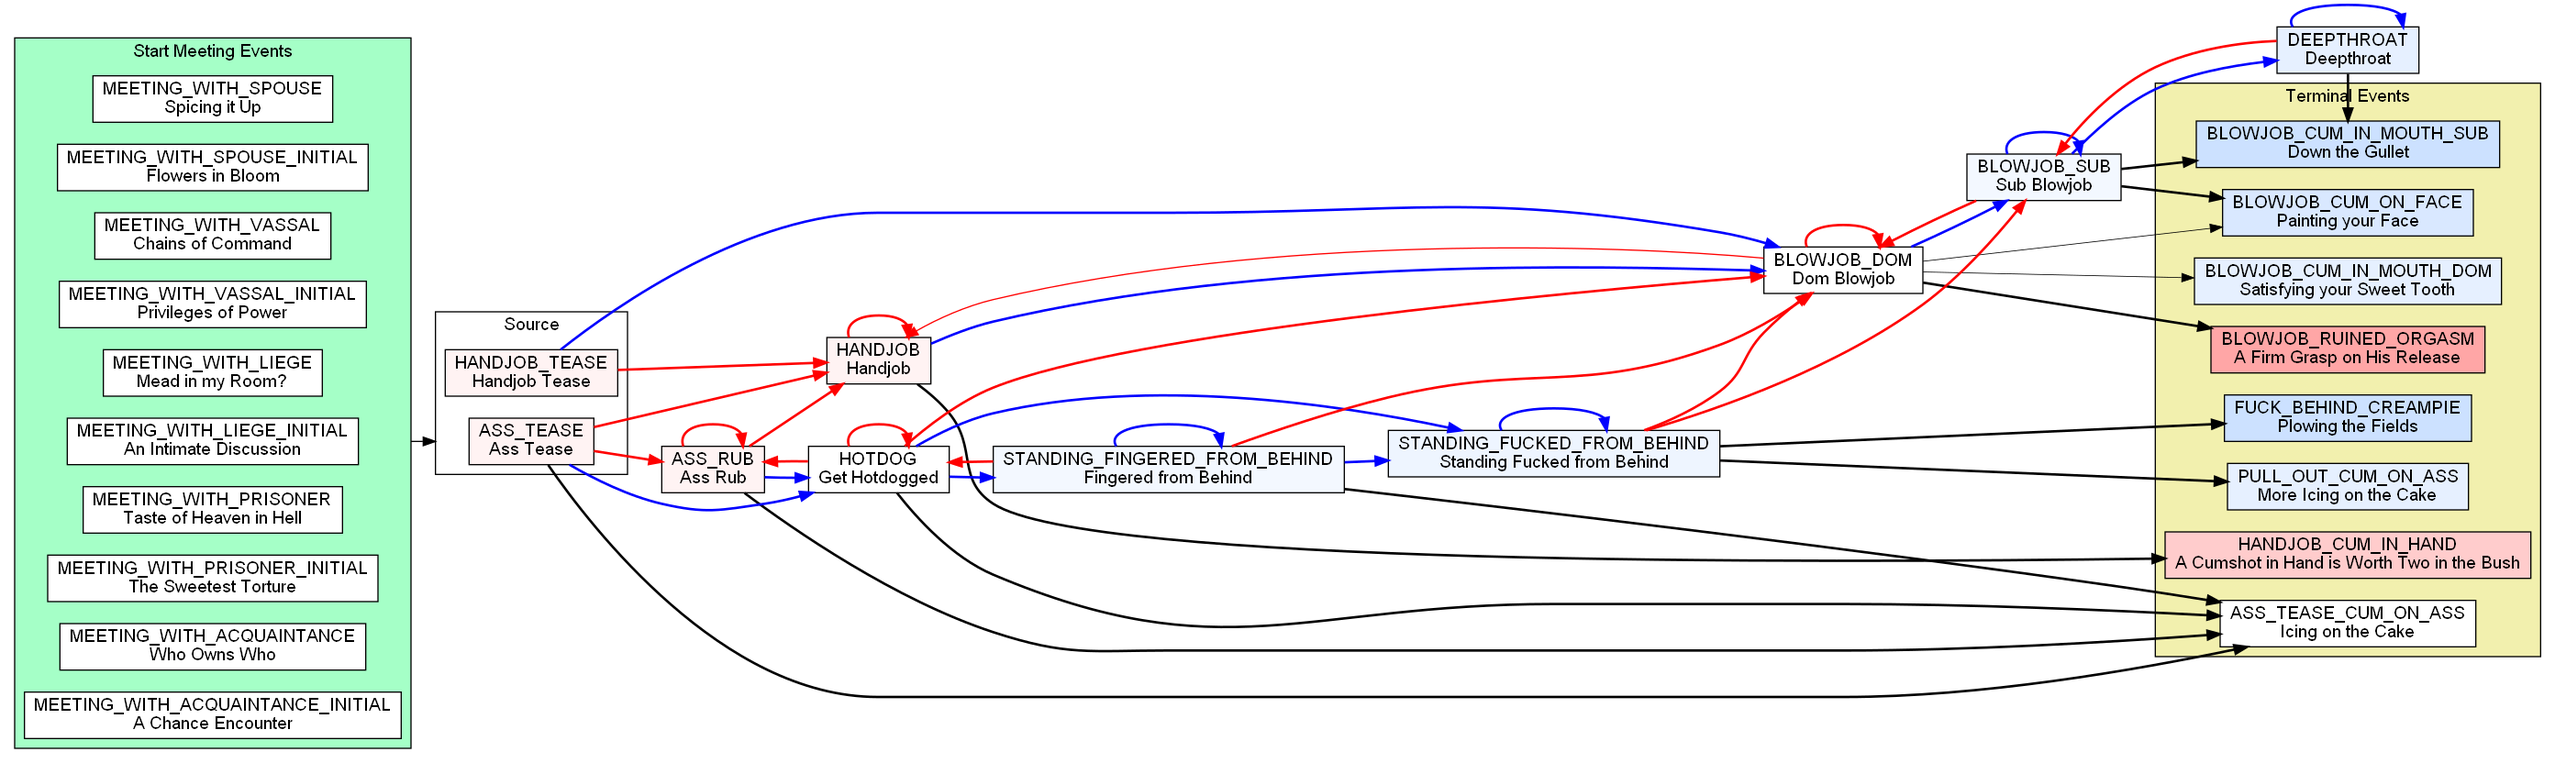
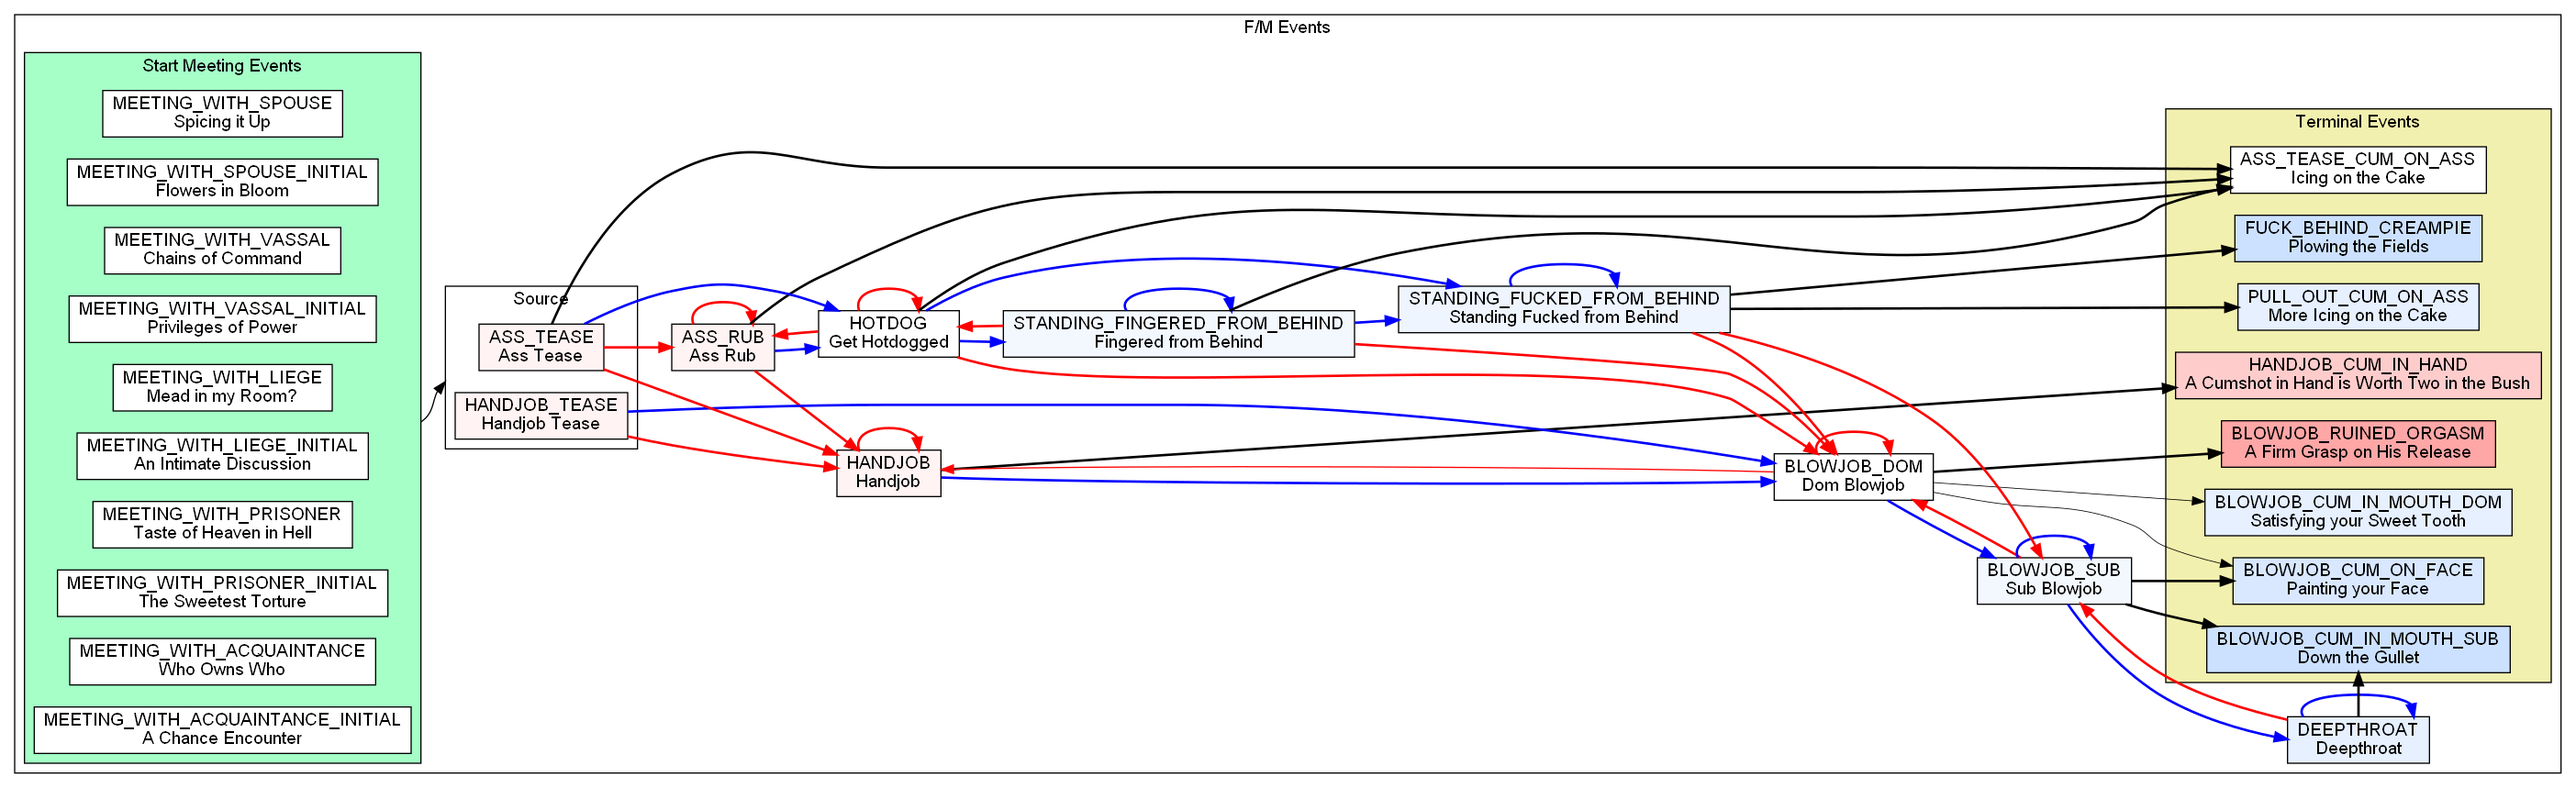
Create separate subgraphs for each gender pairing

diff --git a/generate_events.py b/generate_events.py
@@ -990,75 +990,94 @@ def export_dot_graphviz(events, horizontal=True, censored=False, show_titles=Tru
         # f.write("concentrate=true;\n")
         f.write("compound=true;\n")
 
-        source_sex_events = get_source_sex_events(events)
-        cum_events = []
-        regular_sex_events = []
-        first_events = []
-        for event in events.all():
-            if event in source_sex_events:
+        # organize events into gender pairings
+        pairings = [(FEMALE, MALE), (MALE, FEMALE), (FEMALE, FEMALE), (MALE, MALE)]
+        for pairing in pairings:
+            these_events = EventMap()
+            for event in events.all():
+                if event.root_gender == pairing[0] and event.partner_gender == pairing[1]:
+                    these_events.add(event)
+
+            if len(these_events.events) == 0:
                 continue
-            if isinstance(event.id, EventsCum):
-                cum_events.append(event)
-            elif isinstance(event.id, EventsFirst):
-                first_events.append(event)
-            else:
-                regular_sex_events.append(event)
-        events_with_options = source_sex_events + regular_sex_events
 
-        # regular sex events
-        for event in regular_sex_events:
-            f.write(event.id.name)
-            f.write(get_event_attr(event))
-            f.write(";\n")
+            f.write(
+                f"subgraph cluster_{pairing[0]}{pairing[1]} "
+                f"{{\n label=\"{pairing[0].upper()}/{pairing[1].upper()} Events\";\n")
+            # f.write("style=filled;\n fillcolor=\"#f2f0ae\";\n")
 
-        for event in events_with_options:
-            for option in event.options:
-                # terminal option
-                if option.next_id is None:
+            source_sex_events = get_source_sex_events(events)
+            cum_events = []
+            regular_sex_events = []
+            first_events = []
+            for event in events.all():
+                if event in source_sex_events:
                     continue
-                f.write(f"{event.id.name} -> {option.next_id.name}")
-                attr = []
-                if option.category == OptionCategory.DOM:
-                    attr.append("color=red")
-                elif option.category == OptionCategory.SUB:
-                    attr.append("color=blue")
+                if isinstance(event.id, EventsCum):
+                    cum_events.append(event)
+                elif isinstance(event.id, EventsFirst):
+                    first_events.append(event)
+                else:
+                    regular_sex_events.append(event)
+            events_with_options = source_sex_events + regular_sex_events
 
-                attr.append(f"penwidth={option.weight / 5}")
-
-                if len(attr) > 0:
-                    attr = "[" + ",".join(attr) + "]"
-                    f.write(attr)
+            # regular sex events
+            for event in regular_sex_events:
+                f.write(event.id.name)
+                f.write(get_event_attr(event))
                 f.write(";\n")
 
-        # sex source events (source nodes)
-        f.write("subgraph cluster_sex_source {\n label=\"Source\";\n rank=same;\n")
-        # invisible node for others to connect to the cluster as a whole
-        for i, event in enumerate(source_sex_events):
-            f.write(event.id.name)
-            f.write(get_event_attr(event))
-            f.write(";\n")
-        f.write("}\n")
+            # sex source events (source nodes)
+            f.write("subgraph cluster_sex_source {\n label=\"Source\";\n rank=same;\n")
+            # invisible node for others to connect to the cluster as a whole
+            for i, event in enumerate(source_sex_events):
+                f.write(event.id.name)
+                f.write(get_event_attr(event))
+                f.write(";\n")
+            f.write("}\n")
 
-        f.write("subgraph cluster_meeting {\n label=\"Start Meeting Events\";\n rank=source;\n")
-        f.write("style=filled;\n fillcolor=\"#A5FFC7\";\n")
-        for i, event in enumerate(first_events):
-            f.write(event.id.name)
-            f.write(get_event_attr(event))
-            f.write(";\n")
-            # create visual connection between the start meeting events and the source events
-            if i == len(first_events) // 2:
-                other = source_sex_events[len(source_sex_events) // 2]
-                f.write(f"{event.id.name} -> {other.id.name} [ltail=cluster_meeting,lhead=cluster_sex_source];\n")
-        f.write("}\n")
+            f.write("subgraph cluster_meeting {\n label=\"Start Meeting Events\";\n rank=source;\n")
+            f.write("style=filled;\n fillcolor=\"#A5FFC7\";\n")
+            for i, event in enumerate(first_events):
+                f.write(event.id.name)
+                f.write(get_event_attr(event))
+                f.write(";\n")
+                # create visual connection between the start meeting events and the source events
+                if i == len(first_events) // 2:
+                    other = source_sex_events[len(source_sex_events) // 2]
+                    f.write(f"{event.id.name} -> {other.id.name} [ltail=cluster_meeting,lhead=cluster_sex_source];\n")
+            f.write("}\n")
 
-        # cum events (sink nodes)
-        f.write("subgraph cluster_cum {\n label=\"Terminal Events\";\n rank=sink;\n")
-        f.write("style=filled;\n fillcolor=\"#f2f0ae\";\n")
-        for event in cum_events:
-            f.write(event.id.name)
-            f.write(get_event_attr(event, rank="sink"))
-            f.write(";\n")
-        f.write("}\n")
+            # cum events (sink nodes)
+            f.write("subgraph cluster_cum {\n label=\"Terminal Events\";\n rank=sink;\n")
+            f.write("style=filled;\n fillcolor=\"#f2f0ae\";\n")
+            for event in cum_events:
+                f.write(event.id.name)
+                f.write(get_event_attr(event, rank="sink"))
+                f.write(";\n")
+            f.write("}\n")
+
+            for event in events_with_options:
+                for option in event.options:
+                    # terminal option
+                    if option.next_id is None:
+                        continue
+                    f.write(f"{event.id.name} -> {option.next_id.name}")
+                    attr = []
+                    if option.category == OptionCategory.DOM:
+                        attr.append("color=red")
+                    elif option.category == OptionCategory.SUB:
+                        attr.append("color=blue")
+
+                    attr.append(f"penwidth={option.weight / 5}")
+
+                    if len(attr) > 0:
+                        attr = "[" + ",".join(attr) + "]"
+                        f.write(attr)
+                    f.write(";\n")
+
+            f.write("}\n")
+
         f.write("}\n")
 
     subprocess.run(["dot", "-Tpng", gv_filename, "-o", "vis.png"])
